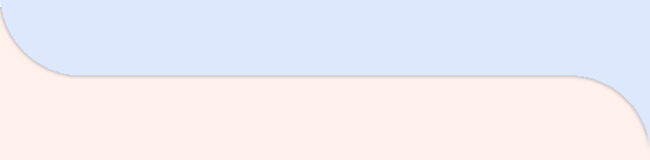
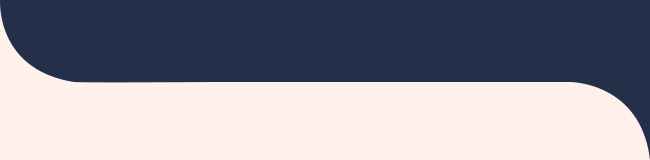
newsletter update

diff --git a/index.html b/index.html
@@ -77,8 +77,8 @@
          }
       </style>
    </head>
-   <body class="body"style="padding:0 !important; margin:0 !important; display:block !important; min-width:100% !important; width:100% !important; background:#1e52bd; -webkit-text-size-adjust:none;">
-      <table width="100%" border="0" cellspacing="0" cellpadding="0" bgcolor="#1e52bd">
+   <body class="body"style="padding:0 !important; margin:0 !important; display:block !important; min-width:100% !important; width:100% !important; background:#dce5f3; -webkit-text-size-adjust:none;">
+      <table width="100%" border="0" cellspacing="0" cellpadding="0" bgcolor="#dce5f3">
          <tr>
             <td align="center" valign="top" style="padding: 0px 15px;">
                <!-- Main -->
@@ -96,7 +96,8 @@
                                              <tr>
                                                 <td class="text-top m-center mpb5"style="color:#9babdb; font-family:'Times New Roman', Georgia, serif; font-size:11px; line-height:22px; text-align:left; text-transform:uppercase;">
                                                    <multiline>
-                                                      <a style="color:#9babdb !important; " href="https://legiteye.com/" target="_blank">	
+                                                      <a style="    color: #1546a9 !important;
+    text-decoration: none; font-family:'Roboto', Arial, sans-serif; " href="https://legiteye.com/" target="_blank">	
                                                       Legiteye - An Eye on Legal news and Insights</a>
                                                    </multiline>
                                                 </td>
@@ -109,9 +110,9 @@
                                                 <td align="right">
                                                    <table class="center" border="0" cellspacing="0" cellpadding="0"style="text-align:center;">
                                                       <tr>
-                                                         <td class="img" width="32"style="font-size:0pt; line-height:0pt; text-align:left;"><a href="https://www.facebook.com/legiteye/" target="_blank"><img src="images/facebook.png" width="28" border="0" alt="" /></a></td>
-                                                         <td class="img" width="32"style="font-size:0pt; line-height:0pt; text-align:left;"><a href="https://twitter.com/LegitQuestLegal" target="_blank"><img src="images/twitter.png" width="28"  border="0" alt="" /></a></td>
-                                                          <td class="img" width="32"style="font-size:0pt; line-height:0pt; text-align:left;"><a href="https://www.linkedin.com/company/legit-quest/" target="_blank"><img src="images/linkedin.png" width="28" border="0" alt="" /></a></td>
+                                                         <td class="img" width="32"style="font-size:0pt; line-height:0pt; text-align:left;"><a href="https://www.facebook.com/legiteye/" target="_blank"><img src="images/facebook.png" width="25" border="0" alt="" /></a></td>
+                                                         <td class="img" width="32"style="font-size:0pt; line-height:0pt; text-align:left;"><a href="https://twitter.com/LegitQuestLegal" target="_blank"><img src="images/twitter.png" width="25"  border="0" alt="" /></a></td>
+                                                          <td class="img" width="32"style="font-size:0pt; line-height:0pt; text-align:left;"><a href="https://www.linkedin.com/company/legit-quest/" target="_blank"><img src="images/linkedin.png" width="25" border="0" alt="" /></a></td>
                                                       </tr>
                                                    </table>
                                                 </td>
@@ -448,7 +449,7 @@
                         <table width="100%" border="0" cellspacing="0" cellpadding="0">
                            <tr>
                               <td>
-                                 <table width="100%" border="0" cellspacing="0" cellpadding="0" bgcolor="#dde8fd">
+                                 <table width="100%" border="0" cellspacing="0" cellpadding="0" bgcolor="#242f4a">
                                     <tr>
                                        <td class="fluid-img"style="font-size:0pt; line-height:0pt; text-align:left;"><img src="images/free_white_blue.jpg" width="650" height="162" border="0" alt="" /></td>
                                     </tr>
@@ -456,7 +457,7 @@
                                        <td class="p0-15" style="padding: 0px 30px;">
                                           <table width="100%" border="0" cellspacing="0" cellpadding="0">
                                              <tr>
-                                                <td class="h2-center"style="color:#000000; font-family:'Playfair Display', Times, 'Times New Roman', serif; font-size:35px; line-height:36px; text-align:center; padding-bottom:30px;    font-weight: 700;">
+                                                <td class="h2-center"style="color:#ffffff; font-family:'Playfair Display', Times, 'Times New Roman', serif; font-size:35px; line-height:36px; text-align:center; padding-bottom:30px;    font-weight: 700;">
                                                    <multiline>Law & Technology</multiline>
                                                 </td>
                                              </tr>
@@ -471,10 +472,10 @@
                                                                   <th class="column-top"style="font-size:0pt; line-height:0pt; padding:0; margin:0; font-weight:normal; vertical-align:top;">
                                                                      <table width="100%" border="0" cellspacing="0" cellpadding="0">
                                                                         <tr>
-                                                                           <td class="text black"style="font-family:'Raleway', Arial,sans-serif; font-size:13px; line-height:22px; text-align:left; color:#000000;">
+                                                                           <td class="text black"style="font-family:'Raleway', Arial,sans-serif; font-size:13px; line-height:22px; text-align:left; color:#ffffffba;">
                                                                               <multiline>
                                                                               
-       <strong style="font-family:'Raleway', Arial,sans-serif; font-size:18px; line-height:23px; text-align:left; padding-bottom:10px; font-weight:bold; color:#000000; display:block">Post-pandemic, law firms will accelerate legal tech integration: Thomson Reuters CPO</strong>
+       <strong style="font-family:'Raleway', Arial,sans-serif; font-size:18px; line-height:23px; text-align:left; padding-bottom:10px; font-weight:bold; color:#e36f3d; display:block">Post-pandemic, law firms will accelerate legal tech integration: Thomson Reuters CPO</strong>
        
        <p style="padding-bottom:10px !important;">Despite the initial COVID-19 slow-down in law firm expenditures on legal tech, the long-term impact of the pandemic will be an even greater acceleration of law firm technology adoption, says Stuart Barr, chief product and strategy officer at HighQ, part of Thomson Reuters.</p>  
        <p style="padding-bottom:10px !important;">“Law firms are adopting technology in much smarter ways and using it to transform their legal-service delivery, and all COVID has done is accelerate that even further,” Barr told Law Times News. “The need to have people able to work remotely from home, from anywhere – where clients are obviously going to be anywhere as well – you need great collaboration software. You need great software as a service and cloud-based tools that you can deliver that service on and be more productive and more efficient.” </p>    
@@ -884,9 +885,11 @@
                         </table>
                         <table width="100%" border="0" cellspacing="0" cellpadding="0">
                            <tr>
-                              <td class="text-footer2 p30-15" style="padding: 30px 15px 50px 15px; color:#a9b6e0; font-family:'Raleway', Arial,sans-serif; font-size:12px; line-height:22px; text-align:center;">
+                              <td class="text-footer2 p30-15" style="padding: 30px 15px 50px 15px; color:#303642; font-family:'Raleway', Arial,sans-serif; font-size:12px; line-height:22px; text-align:center;">
                                  <multiline>
-                                  Copyright © <a href="https://legiteye.com/" target="_blank" class="link-white"style="color:#ffffff; text-decoration:none;"><span class="link-white"style="color:#ffffff; text-decoration:none;"> legiteyet</span></a> 2020, All rights reserved. 
+                                  Copyright © <a href="https://legiteye.com/" target="_blank" class="link-white"style="color:#ffffff; text-decoration:none;"><span class="link-white"style="color: #e85719;
+    text-decoration: none;
+    font-weight: 600;"> legiteyet</span></a> 2020, All rights reserved. 
                                  </multiline>
                               </td>
                            </tr>
